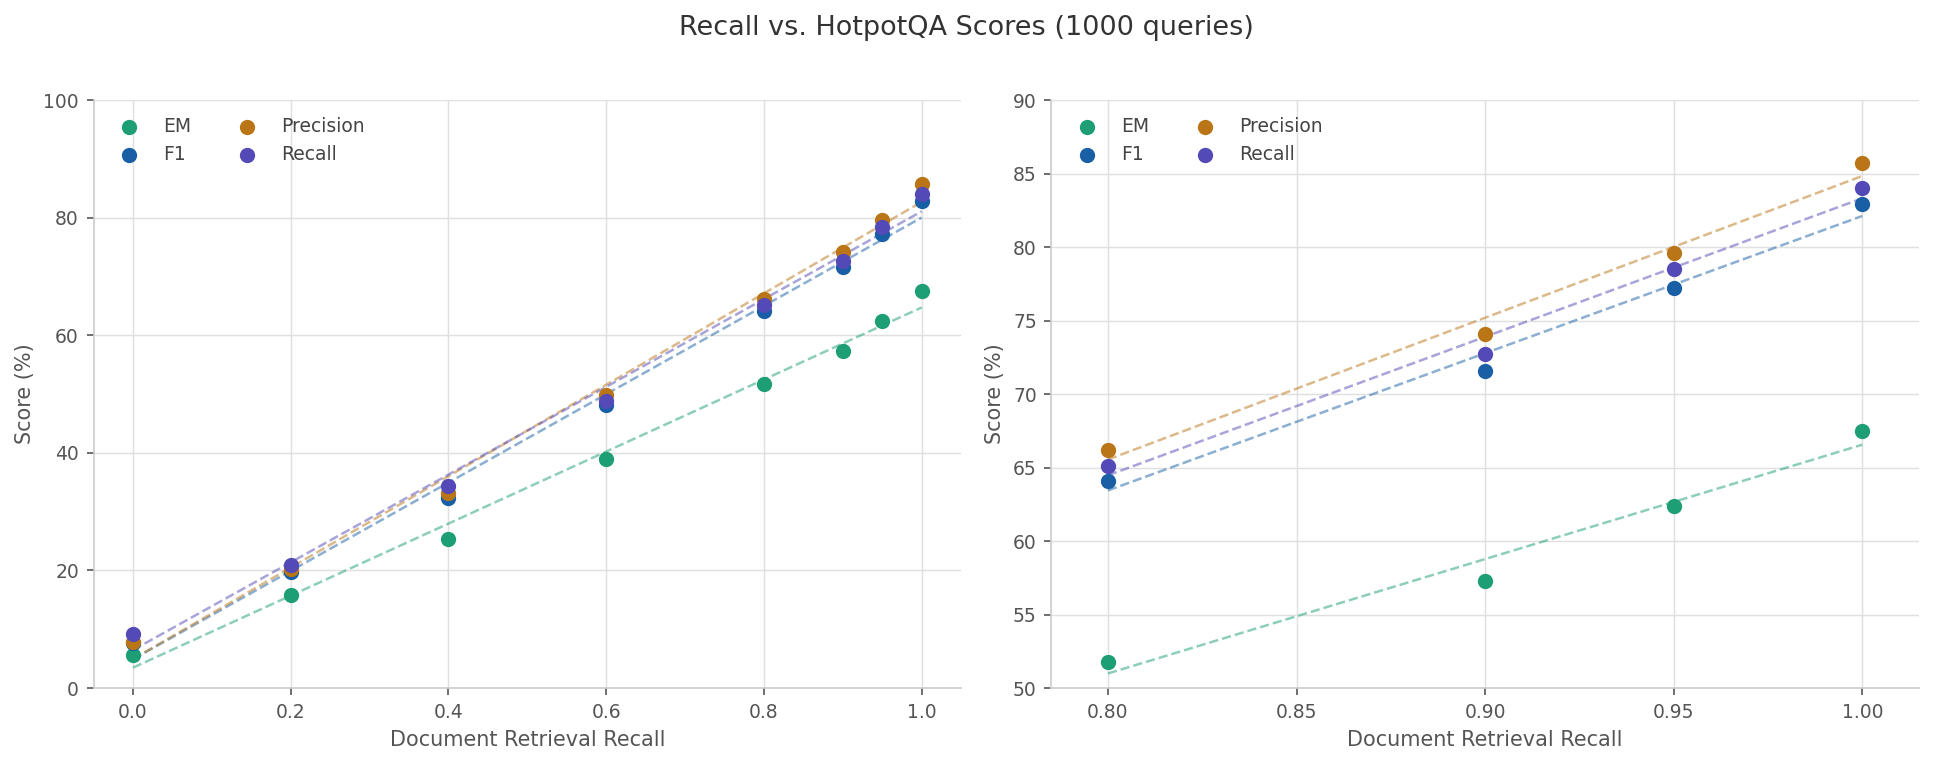
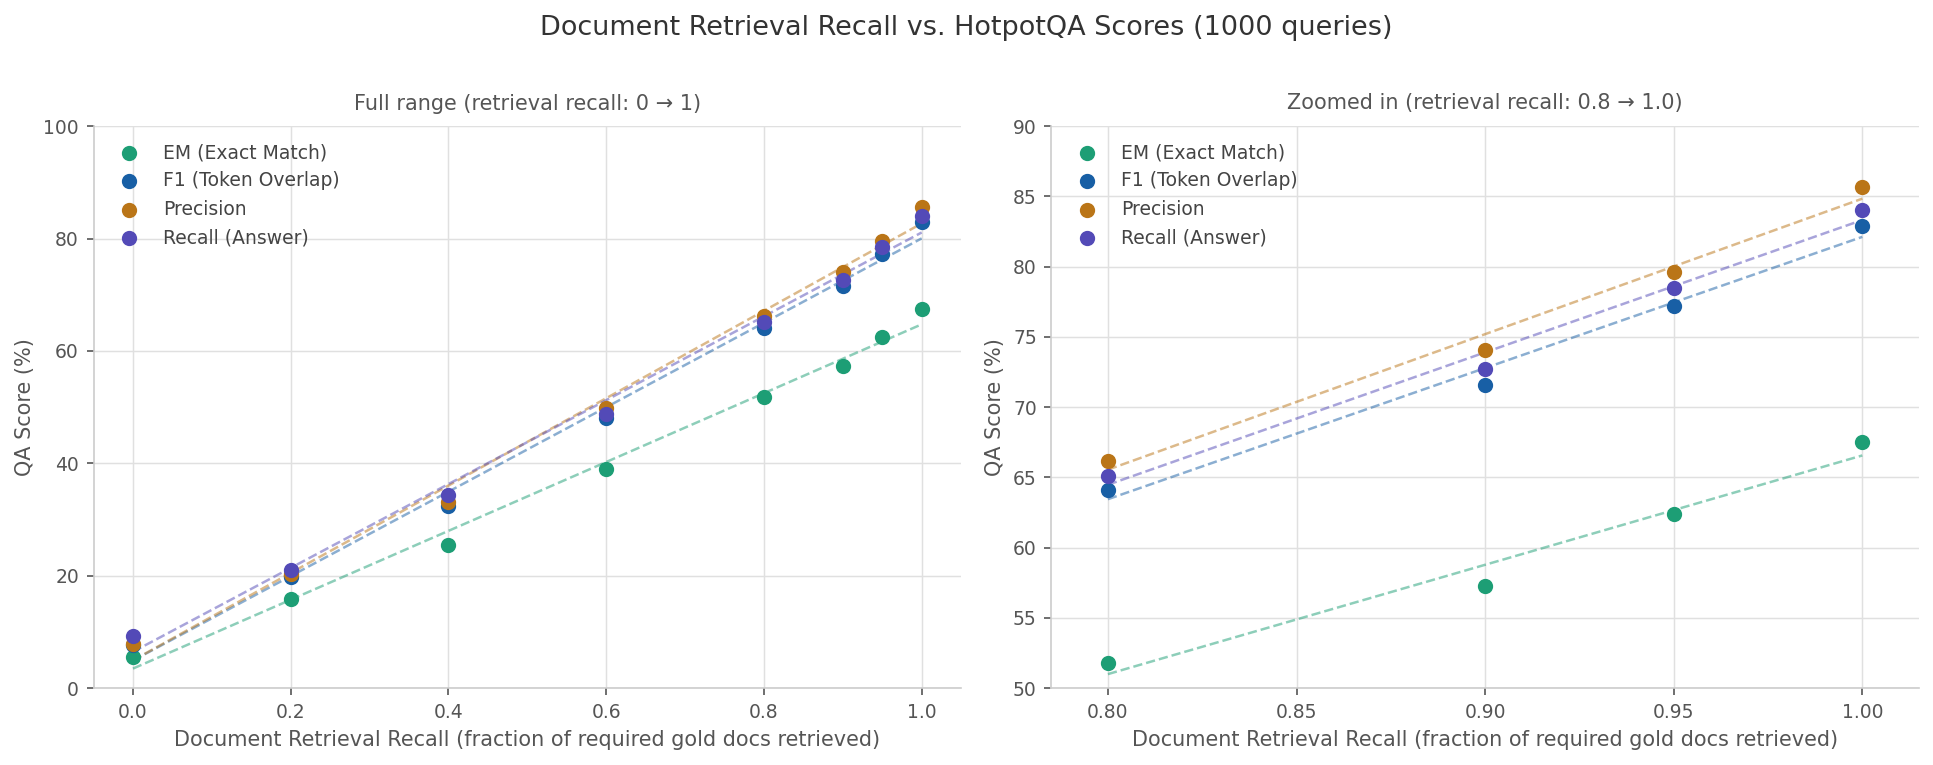
updating plots

diff --git a/src/plot_hotpot_results.py b/src/plot_hotpot_results.py
@@ -44,24 +44,25 @@ def style_ax(ax):
 
 fig, (ax1, ax2) = plt.subplots(1, 2, figsize=(13, 5))
 fig.patch.set_facecolor("white")
-fig.suptitle("Recall vs. HotpotQA Scores (1000 queries)",
+fig.suptitle("Document Retrieval Recall vs. HotpotQA Scores (1000 queries)",
              fontsize=13, color="#333333", y=1.01)
 
 # --- Left: full range ---
 for y_vals, label, key in [
-    (em,   "EM",        "em"),
-    (f1,   "F1",        "f1"),
-    (prec, "Precision", "prec"),
-    (rec,  "Recall",    "rec"),
+    (em,   "EM (Exact Match)",  "em"),
+    (f1,   "F1 (Token Overlap)", "f1"),
+    (prec, "Precision",         "prec"),
+    (rec,  "Recall (Answer)",   "rec"),
 ]:
     ax1.scatter(x, y_vals, color=COLORS[key], s=40, zorder=3, label=label)
     add_trendline(ax1, x, y_vals, COLORS[key])
 
 ax1.set_xlim(-0.05, 1.05)
 ax1.set_ylim(0, 100)
-ax1.set_xlabel("Document Retrieval Recall", fontsize=10)
-ax1.set_ylabel("Score (%)", fontsize=10)
-ax1.legend(fontsize=9, frameon=False, ncol=2,
+ax1.set_xlabel("Document Retrieval Recall (fraction of required gold docs retrieved)", fontsize=10)
+ax1.set_ylabel("QA Score (%)", fontsize=10)
+ax1.set_title("Full range (retrieval recall: 0 → 1)", fontsize=10, color="#555555", pad=8)
+ax1.legend(fontsize=9, frameon=False, ncol=1,
            loc="upper left", labelcolor="#444444")
 style_ax(ax1)
 
@@ -74,19 +75,20 @@ prec_z = [v for v, m in zip(prec, zoom_mask) if m]
 rec_z  = [v for v, m in zip(rec,  zoom_mask) if m]
 
 for y_vals, label, key in [
-    (em_z,   "EM",        "em"),
-    (f1_z,   "F1",        "f1"),
-    (prec_z, "Precision", "prec"),
-    (rec_z,  "Recall",    "rec"),
+    (em_z,   "EM (Exact Match)",   "em"),
+    (f1_z,   "F1 (Token Overlap)", "f1"),
+    (prec_z, "Precision",          "prec"),
+    (rec_z,  "Recall (Answer)",    "rec"),
 ]:
     ax2.scatter(x_z, y_vals, color=COLORS[key], s=40, zorder=3, label=label)
     add_trendline(ax2, x_z, y_vals, COLORS[key])
 
 ax2.set_xlim(0.785, 1.015)
 ax2.set_ylim(50, 90)
-ax2.set_xlabel("Document Retrieval Recall", fontsize=10)
-ax2.set_ylabel("Score (%)", fontsize=10)
-ax2.legend(fontsize=9, frameon=False, ncol=2,
+ax2.set_xlabel("Document Retrieval Recall (fraction of required gold docs retrieved)", fontsize=10)
+ax2.set_ylabel("QA Score (%)", fontsize=10)
+ax2.set_title("Zoomed in (retrieval recall: 0.8 → 1.0)", fontsize=10, color="#555555", pad=8)
+ax2.legend(fontsize=9, frameon=False, ncol=1,
            loc="upper left", labelcolor="#444444")
 style_ax(ax2)
 
